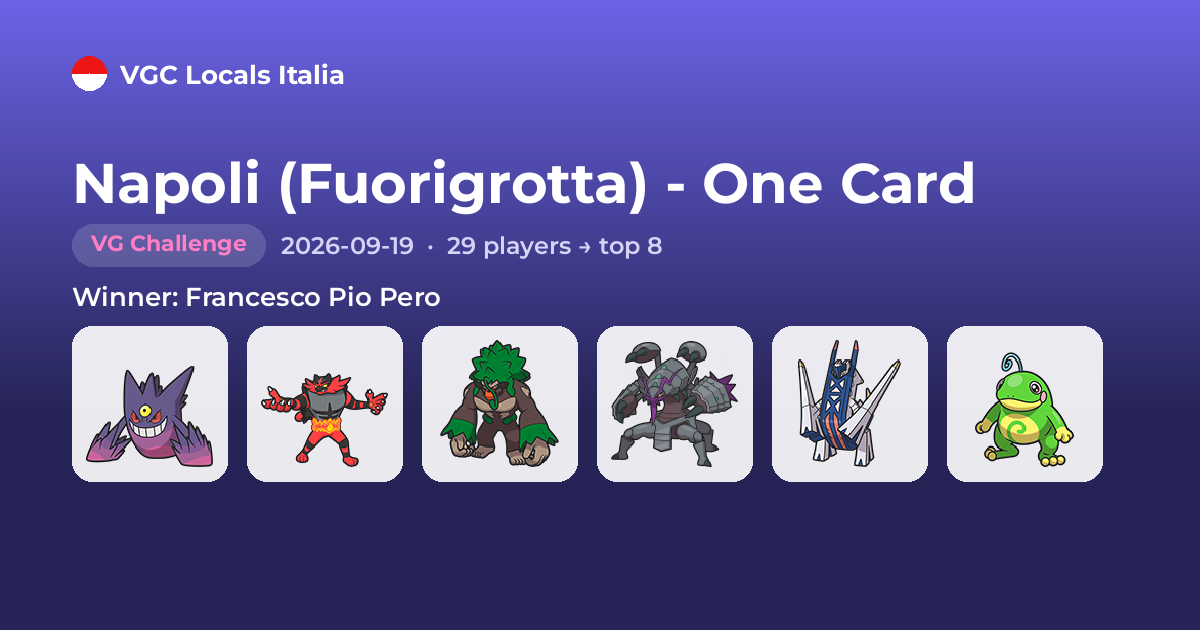
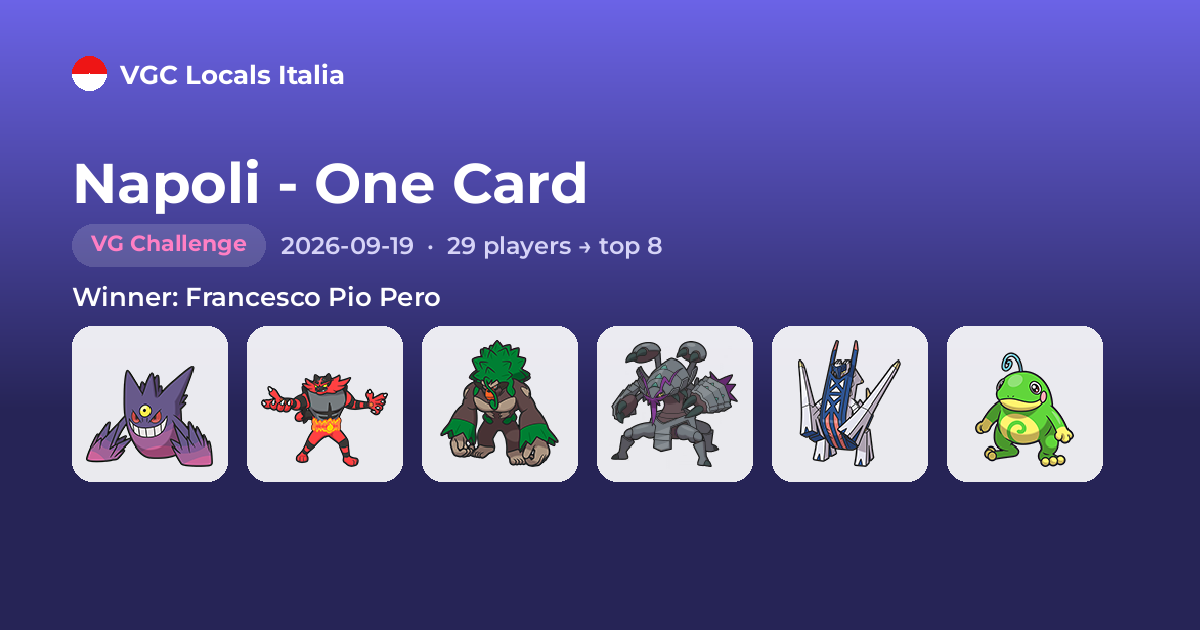
Update Italian VGC locals data (2026-09-30)

Changed region(s): [[0.2158, 0.2413, 0.8325, 0.3619]]

diff --git a/vgc-locals-italia/t/foggia-mazeek-di-andrea-fiore-2026-09-20-challenge.html b/vgc-locals-italia/t/foggia-mazeek-di-andrea-fiore-2026-09-20-challenge.html
@@ -1,0 +1,221 @@
+<!doctype html>
+<html lang="en">
+<head>
+  <meta charset="utf-8">
+  <meta name="viewport" content="width=device-width, initial-scale=1">
+  <title>Foggia - Mazeek Di Andrea Fiore - VGC Locals Italia</title>
+  <meta name="description" content="Won by Nico Davide Cognetta — VG Challenge, 10 players → top 4.">
+
+  <meta property="og:type" content="website">
+  <meta property="og:url" content="https://shairaba.github.io/vgc-locals-italia/t/foggia-mazeek-di-andrea-fiore-2026-09-20-challenge.html">
+  <meta property="og:title" content="Foggia - Mazeek Di Andrea Fiore">
+  <meta property="og:description" content="Won by Nico Davide Cognetta — VG Challenge, 10 players → top 4.">
+  <meta property="og:image" content="https://shairaba.github.io/vgc-locals-italia/data/og/foggia-mazeek-di-andrea-fiore-2026-09-20-challenge.png">
+  <meta property="og:image:width" content="1200">
+  <meta property="og:image:height" content="630">
+  <meta name="twitter:card" content="summary_large_image">
+  <meta name="twitter:title" content="Foggia - Mazeek Di Andrea Fiore">
+  <meta name="twitter:description" content="Won by Nico Davide Cognetta — VG Challenge, 10 players → top 4.">
+  <meta name="twitter:image" content="https://shairaba.github.io/vgc-locals-italia/data/og/foggia-mazeek-di-andrea-fiore-2026-09-20-challenge.png">
+
+  <link rel="icon" href="../logo.svg" type="image/svg+xml">
+  <script>
+  (function () {
+    var m = document.cookie.match(/(?:^|; )theme=(dark|light)/);
+    var theme = m ? m[1] : (window.matchMedia && window.matchMedia("(prefers-color-scheme: dark)").matches ? "dark" : "light");
+    document.documentElement.setAttribute("data-theme", theme);
+  })();
+  </script>
+  <link rel="preconnect" href="https://fonts.googleapis.com">
+  <link rel="preconnect" href="https://fonts.gstatic.com" crossorigin>
+  <link href="https://fonts.googleapis.com/css2?family=Montserrat:wght@400;500;600;700;800&display=swap" rel="stylesheet">
+  <link rel="stylesheet" href="../style.css">
+</head>
+<body>
+  <header class="topbar">
+    <a class="brand-group" href="../index.html">
+      <img class="logo" src="../logo.svg" alt="">
+      <span class="brand">VGC Locals Italia</span>
+    </a>
+    <div class="topbar-controls">
+      <nav>
+        <a href="../index.html" data-i18n="navTournaments">Tournaments</a>
+        <a href="../dashboard.html" data-i18n="navDashboard">Dashboard</a>
+      </nav>
+      <div class="lang-toggle">
+        <button class="lang-btn" data-lang="it" type="button">IT</button>
+        <button class="lang-btn" data-lang="en" type="button">EN</button>
+      </div>
+      <button id="theme-toggle" type="button" data-i18n-aria-label="themeToggleLabel" aria-label="Toggle dark mode">
+        <span class="theme-switch-icon theme-switch-sun" aria-hidden="true">
+          <svg viewBox="0 0 24 24" width="12" height="12" fill="none" stroke="currentColor" stroke-width="2" stroke-linecap="round">
+            <circle cx="12" cy="12" r="4"></circle>
+            <path d="M12 2v2M12 20v2M4.93 4.93l1.41 1.41M17.66 17.66l1.41 1.41M2 12h2M20 12h2M6.34 17.66l-1.41 1.41M19.07 4.93l-1.41 1.41"></path>
+          </svg>
+        </span>
+        <span class="theme-switch-icon theme-switch-moon" aria-hidden="true">
+          <svg viewBox="0 0 24 24" width="12" height="12" fill="currentColor">
+            <path d="M20 14.5A8.5 8.5 0 1 1 9.5 4a7 7 0 1 0 10.5 10.5z"></path>
+          </svg>
+        </span>
+        <span class="theme-switch-knob"></span>
+      </button>
+    </div>
+  </header>
+  <main class="container">
+    <p class="breadcrumb"><a href="../index.html" data-i18n="breadcrumbAllTournaments">&larr; All tournaments</a></p>
+
+    <div class="detail-title-row">
+      <h1>Foggia - Mazeek Di Andrea Fiore</h1>
+      <span class="badge type-challenge">VG Challenge</span>
+    </div>
+    <p class="lede" id="detail-meta"></p>
+    <p class="meta location-line">&#128205; <a href="https://shairaba.github.io/pokemon-events-italia/venue.html?vid=L6244693" target="_blank" rel="noopener">Mazeek Di Andrea Fiore</a></p>
+
+    <section class="panel">
+      <h2 data-i18n="allTeamsHeading">All top-cut teams</h2>
+      <div class="roster-list">
+        <div class="roster-card">
+          <div class="roster-card-head">
+            <span class="roster-place">1st</span>
+            <span class="roster-player">Nico Davide Cognetta</span>
+          </div>
+          <div class="mon-mini-grid">
+        <div class="mon-mini">
+          <span class="sprite-chip"><img class="sprite" src="https://cdn.jsdelivr.net/gh/shairaba/VGC-Teamlist-Generator-Assets@HEAD/Assets/Pokemon/0026_01.png" alt="Raichu-Mega-X" title="Raichu-Mega-X" loading="lazy" onerror="this.onerror=null;this.src='https://r2.limitlesstcg.net/pokemon/gen9/raichu-mega-x.png';"></span>
+          <span class="truncate">Raichu-Mega-X</span>
+        </div>
+        <div class="mon-mini">
+          <span class="sprite-chip"><img class="sprite" src="https://cdn.jsdelivr.net/gh/shairaba/VGC-Teamlist-Generator-Assets@HEAD/Assets/Pokemon/0655_01.png" alt="Delphox-Mega" title="Delphox-Mega" loading="lazy" onerror="this.onerror=null;this.src='https://r2.limitlesstcg.net/pokemon/gen9/delphox-mega.png';"></span>
+          <span class="truncate">Delphox-Mega</span>
+        </div>
+        <div class="mon-mini">
+          <span class="sprite-chip"><img class="sprite" src="https://cdn.jsdelivr.net/gh/shairaba/VGC-Teamlist-Generator-Assets@HEAD/Assets/Pokemon/0983.png" alt="Kingambit" title="Kingambit" loading="lazy" onerror="this.onerror=null;this.src='https://r2.limitlesstcg.net/pokemon/gen9/kingambit.png';"></span>
+          <span class="truncate">Kingambit</span>
+        </div>
+        <div class="mon-mini">
+          <span class="sprite-chip"><img class="sprite" src="https://cdn.jsdelivr.net/gh/shairaba/VGC-Teamlist-Generator-Assets@HEAD/Assets/Pokemon/0727.png" alt="Incineroar" title="Incineroar" loading="lazy" onerror="this.onerror=null;this.src='https://r2.limitlesstcg.net/pokemon/gen9/incineroar.png';"></span>
+          <span class="truncate">Incineroar</span>
+        </div>
+        <div class="mon-mini">
+          <span class="sprite-chip"><img class="sprite" src="https://cdn.jsdelivr.net/gh/shairaba/VGC-Teamlist-Generator-Assets@HEAD/Assets/Pokemon/1013.png" alt="Sinistcha" title="Sinistcha" loading="lazy" onerror="this.onerror=null;this.src='https://r2.limitlesstcg.net/pokemon/gen9/sinistcha.png';"></span>
+          <span class="truncate">Sinistcha</span>
+        </div>
+        <div class="mon-mini">
+          <span class="sprite-chip"><img class="sprite" src="https://cdn.jsdelivr.net/gh/shairaba/VGC-Teamlist-Generator-Assets@HEAD/Assets/Pokemon/0784.png" alt="Kommo-o" title="Kommo-o" loading="lazy" onerror="this.onerror=null;this.src='https://r2.limitlesstcg.net/pokemon/gen9/kommo-o.png';"></span>
+          <span class="truncate">Kommo-o</span>
+        </div></div>
+        </div>
+        <div class="roster-card">
+          <div class="roster-card-head">
+            <span class="roster-place">2nd</span>
+            <span class="roster-player">Antonio Marchitelli</span>
+          </div>
+          <div class="mon-mini-grid">
+        <div class="mon-mini">
+          <span class="sprite-chip"><img class="sprite" src="https://cdn.jsdelivr.net/gh/shairaba/VGC-Teamlist-Generator-Assets@HEAD/Assets/Pokemon/0445_02.png" alt="Garchomp-Mega-Z" title="Garchomp-Mega-Z" loading="lazy" onerror="this.onerror=null;this.src='https://r2.limitlesstcg.net/pokemon/gen9/garchomp-mega-z.png';"></span>
+          <span class="truncate">Garchomp-Mega-Z</span>
+        </div>
+        <div class="mon-mini">
+          <span class="sprite-chip"><img class="sprite" src="https://cdn.jsdelivr.net/gh/shairaba/VGC-Teamlist-Generator-Assets@HEAD/Assets/Pokemon/0670_02.png" alt="Floette-Mega" title="Floette-Mega" loading="lazy" onerror="this.onerror=null;this.src='https://r2.limitlesstcg.net/pokemon/gen9/floette-mega.png';"></span>
+          <span class="truncate">Floette-Mega</span>
+        </div>
+        <div class="mon-mini">
+          <span class="sprite-chip"><img class="sprite" src="https://cdn.jsdelivr.net/gh/shairaba/VGC-Teamlist-Generator-Assets@HEAD/Assets/Pokemon/0727.png" alt="Incineroar" title="Incineroar" loading="lazy" onerror="this.onerror=null;this.src='https://r2.limitlesstcg.net/pokemon/gen9/incineroar.png';"></span>
+          <span class="truncate">Incineroar</span>
+        </div>
+        <div class="mon-mini">
+          <span class="sprite-chip"><img class="sprite" src="https://cdn.jsdelivr.net/gh/shairaba/VGC-Teamlist-Generator-Assets@HEAD/Assets/Pokemon/0812.png" alt="Rillaboom" title="Rillaboom" loading="lazy" onerror="this.onerror=null;this.src='https://r2.limitlesstcg.net/pokemon/gen9/rillaboom.png';"></span>
+          <span class="truncate">Rillaboom</span>
+        </div>
+        <div class="mon-mini">
+          <span class="sprite-chip"><img class="sprite" src="https://cdn.jsdelivr.net/gh/shairaba/VGC-Teamlist-Generator-Assets@HEAD/Assets/Pokemon/0983.png" alt="Kingambit" title="Kingambit" loading="lazy" onerror="this.onerror=null;this.src='https://r2.limitlesstcg.net/pokemon/gen9/kingambit.png';"></span>
+          <span class="truncate">Kingambit</span>
+        </div>
+        <div class="mon-mini">
+          <span class="sprite-chip"><img class="sprite" src="https://cdn.jsdelivr.net/gh/shairaba/VGC-Teamlist-Generator-Assets@HEAD/Assets/Pokemon/0903.png" alt="Sneasler" title="Sneasler" loading="lazy" onerror="this.onerror=null;this.src='https://r2.limitlesstcg.net/pokemon/gen9/sneasler.png';"></span>
+          <span class="truncate">Sneasler</span>
+        </div></div>
+        </div>
+        <div class="roster-card">
+          <div class="roster-card-head">
+            <span class="roster-place">3rd</span>
+            <span class="roster-player">Mattia Cognetta</span>
+          </div>
+          <div class="mon-mini-grid">
+        <div class="mon-mini">
+          <span class="sprite-chip"><img class="sprite" src="https://cdn.jsdelivr.net/gh/shairaba/VGC-Teamlist-Generator-Assets@HEAD/Assets/Pokemon/0026_02.png" alt="Raichu-Mega-Y" title="Raichu-Mega-Y" loading="lazy" onerror="this.onerror=null;this.src='https://r2.limitlesstcg.net/pokemon/gen9/raichu-mega-y.png';"></span>
+          <span class="truncate">Raichu-Mega-Y</span>
+        </div>
+        <div class="mon-mini">
+          <span class="sprite-chip"><img class="sprite" src="https://cdn.jsdelivr.net/gh/shairaba/VGC-Teamlist-Generator-Assets@HEAD/Assets/Pokemon/0376_01.png" alt="Metagross-Mega" title="Metagross-Mega" loading="lazy" onerror="this.onerror=null;this.src='https://r2.limitlesstcg.net/pokemon/gen9/metagross-mega.png';"></span>
+          <span class="truncate">Metagross-Mega</span>
+        </div>
+        <div class="mon-mini">
+          <span class="sprite-chip"><img class="sprite" src="https://cdn.jsdelivr.net/gh/shairaba/VGC-Teamlist-Generator-Assets@HEAD/Assets/Pokemon/0727.png" alt="Incineroar" title="Incineroar" loading="lazy" onerror="this.onerror=null;this.src='https://r2.limitlesstcg.net/pokemon/gen9/incineroar.png';"></span>
+          <span class="truncate">Incineroar</span>
+        </div>
+        <div class="mon-mini">
+          <span class="sprite-chip"><img class="sprite" src="https://cdn.jsdelivr.net/gh/shairaba/VGC-Teamlist-Generator-Assets@HEAD/Assets/Pokemon/0812.png" alt="Rillaboom" title="Rillaboom" loading="lazy" onerror="this.onerror=null;this.src='https://r2.limitlesstcg.net/pokemon/gen9/rillaboom.png';"></span>
+          <span class="truncate">Rillaboom</span>
+        </div>
+        <div class="mon-mini">
+          <span class="sprite-chip"><img class="sprite" src="https://cdn.jsdelivr.net/gh/shairaba/VGC-Teamlist-Generator-Assets@HEAD/Assets/Pokemon/0637.png" alt="Volcarona" title="Volcarona" loading="lazy" onerror="this.onerror=null;this.src='https://r2.limitlesstcg.net/pokemon/gen9/volcarona.png';"></span>
+          <span class="truncate">Volcarona</span>
+        </div>
+        <div class="mon-mini">
+          <span class="sprite-chip"><img class="sprite" src="https://cdn.jsdelivr.net/gh/shairaba/VGC-Teamlist-Generator-Assets@HEAD/Assets/Pokemon/0445.png" alt="Garchomp" title="Garchomp" loading="lazy" onerror="this.onerror=null;this.src='https://r2.limitlesstcg.net/pokemon/gen9/garchomp.png';"></span>
+          <span class="truncate">Garchomp</span>
+        </div></div>
+        </div>
+        <div class="roster-card">
+          <div class="roster-card-head">
+            <span class="roster-place">4th</span>
+            <span class="roster-player">Andrea Rubegni</span>
+          </div>
+          <div class="mon-mini-grid">
+        <div class="mon-mini">
+          <span class="sprite-chip"><img class="sprite" src="https://cdn.jsdelivr.net/gh/shairaba/VGC-Teamlist-Generator-Assets@HEAD/Assets/Pokemon/0006_02.png" alt="Charizard-Mega-Y" title="Charizard-Mega-Y" loading="lazy" onerror="this.onerror=null;this.src='https://r2.limitlesstcg.net/pokemon/gen9/charizard-mega-y.png';"></span>
+          <span class="truncate">Charizard-Mega-Y</span>
+        </div>
+        <div class="mon-mini">
+          <span class="sprite-chip"><img class="sprite" src="https://cdn.jsdelivr.net/gh/shairaba/VGC-Teamlist-Generator-Assets@HEAD/Assets/Pokemon/0445.png" alt="Garchomp" title="Garchomp" loading="lazy" onerror="this.onerror=null;this.src='https://r2.limitlesstcg.net/pokemon/gen9/garchomp.png';"></span>
+          <span class="truncate">Garchomp</span>
+        </div>
+        <div class="mon-mini">
+          <span class="sprite-chip"><img class="sprite" src="https://cdn.jsdelivr.net/gh/shairaba/VGC-Teamlist-Generator-Assets@HEAD/Assets/Pokemon/0727.png" alt="Incineroar" title="Incineroar" loading="lazy" onerror="this.onerror=null;this.src='https://r2.limitlesstcg.net/pokemon/gen9/incineroar.png';"></span>
+          <span class="truncate">Incineroar</span>
+        </div>
+        <div class="mon-mini">
+          <span class="sprite-chip"><img class="sprite" src="https://cdn.jsdelivr.net/gh/shairaba/VGC-Teamlist-Generator-Assets@HEAD/Assets/Pokemon/0812.png" alt="Rillaboom" title="Rillaboom" loading="lazy" onerror="this.onerror=null;this.src='https://r2.limitlesstcg.net/pokemon/gen9/rillaboom.png';"></span>
+          <span class="truncate">Rillaboom</span>
+        </div>
+        <div class="mon-mini">
+          <span class="sprite-chip"><img class="sprite" src="https://cdn.jsdelivr.net/gh/shairaba/VGC-Teamlist-Generator-Assets@HEAD/Assets/Pokemon/0350.png" alt="Milotic" title="Milotic" loading="lazy" onerror="this.onerror=null;this.src='https://r2.limitlesstcg.net/pokemon/gen9/milotic.png';"></span>
+          <span class="truncate">Milotic</span>
+        </div>
+        <div class="mon-mini">
+          <span class="sprite-chip"><img class="sprite" src="https://cdn.jsdelivr.net/gh/shairaba/VGC-Teamlist-Generator-Assets@HEAD/Assets/Pokemon/1000.png" alt="Gholdengo" title="Gholdengo" loading="lazy" onerror="this.onerror=null;this.src='https://r2.limitlesstcg.net/pokemon/gen9/gholdengo.png';"></span>
+          <span class="truncate">Gholdengo</span>
+        </div></div>
+        </div></div>
+    </section>
+
+    <p class="footnote" data-i18n="footnoteDisclaimer">
+      Not affiliated with The Pok&eacute;mon Company International.
+    </p>
+  </main>
+
+  <script src="../app.js"></script>
+  <script src="../sprite-map.js"></script>
+  <script>
+    (function () {
+      const renderMeta = () => {
+        document.getElementById("detail-meta").textContent = t("cardMeta", '2026-09-20', 10, 4);
+      };
+      renderMeta();
+      initLangToggle(renderMeta);
+    })();
+  </script>
+</body>
+</html>

diff --git a/vgc-locals-italia/t/rende-cs-comics-and-games-store-2026-09-29-challenge.html b/vgc-locals-italia/t/rende-cs-comics-and-games-store-2026-09-29-challenge.html
@@ -3,18 +3,18 @@
 <head>
   <meta charset="utf-8">
   <meta name="viewport" content="width=device-width, initial-scale=1">
-  <title>Rende (CS) - Comics And Games Store - VGC Locals Italia</title>
+  <title>Rende - Comics And Games Store - VGC Locals Italia</title>
   <meta name="description" content="Won by Federico Barone — VG Challenge, 10 players → top 4.">
 
   <meta property="og:type" content="website">
   <meta property="og:url" content="https://shairaba.github.io/vgc-locals-italia/t/rende-cs-comics-and-games-store-2026-09-29-challenge.html">
-  <meta property="og:title" content="Rende (CS) - Comics And Games Store">
+  <meta property="og:title" content="Rende - Comics And Games Store">
   <meta property="og:description" content="Won by Federico Barone — VG Challenge, 10 players → top 4.">
   <meta property="og:image" content="https://shairaba.github.io/vgc-locals-italia/data/og/rende-cs-comics-and-games-store-2026-09-29-challenge.png">
   <meta property="og:image:width" content="1200">
   <meta property="og:image:height" content="630">
   <meta name="twitter:card" content="summary_large_image">
-  <meta name="twitter:title" content="Rende (CS) - Comics And Games Store">
+  <meta name="twitter:title" content="Rende - Comics And Games Store">
   <meta name="twitter:description" content="Won by Federico Barone — VG Challenge, 10 players → top 4.">
   <meta name="twitter:image" content="https://shairaba.github.io/vgc-locals-italia/data/og/rende-cs-comics-and-games-store-2026-09-29-challenge.png">
 
@@ -66,7 +66,7 @@
     <p class="breadcrumb"><a href="../index.html" data-i18n="breadcrumbAllTournaments">&larr; All tournaments</a></p>
 
     <div class="detail-title-row">
-      <h1>Rende (CS) - Comics And Games Store</h1>
+      <h1>Rende - Comics And Games Store</h1>
       <span class="badge type-challenge">VG Challenge</span>
     </div>
     <p class="lede" id="detail-meta"></p>

diff --git a/vgc-locals-italia/t/napoli-fuorigrotta-one-card-2026-09-19-challenge.html b/vgc-locals-italia/t/napoli-fuorigrotta-one-card-2026-09-19-challenge.html
@@ -3,18 +3,18 @@
 <head>
   <meta charset="utf-8">
   <meta name="viewport" content="width=device-width, initial-scale=1">
-  <title>Napoli (Fuorigrotta) - One Card - VGC Locals Italia</title>
+  <title>Napoli - One Card - VGC Locals Italia</title>
   <meta name="description" content="Won by Francesco Pio Pero — VG Challenge, 29 players → top 8.">
 
   <meta property="og:type" content="website">
   <meta property="og:url" content="https://shairaba.github.io/vgc-locals-italia/t/napoli-fuorigrotta-one-card-2026-09-19-challenge.html">
-  <meta property="og:title" content="Napoli (Fuorigrotta) - One Card">
+  <meta property="og:title" content="Napoli - One Card">
   <meta property="og:description" content="Won by Francesco Pio Pero — VG Challenge, 29 players → top 8.">
   <meta property="og:image" content="https://shairaba.github.io/vgc-locals-italia/data/og/napoli-fuorigrotta-one-card-2026-09-19-challenge.png">
   <meta property="og:image:width" content="1200">
   <meta property="og:image:height" content="630">
   <meta name="twitter:card" content="summary_large_image">
-  <meta name="twitter:title" content="Napoli (Fuorigrotta) - One Card">
+  <meta name="twitter:title" content="Napoli - One Card">
   <meta name="twitter:description" content="Won by Francesco Pio Pero — VG Challenge, 29 players → top 8.">
   <meta name="twitter:image" content="https://shairaba.github.io/vgc-locals-italia/data/og/napoli-fuorigrotta-one-card-2026-09-19-challenge.png">
 
@@ -66,7 +66,7 @@
     <p class="breadcrumb"><a href="../index.html" data-i18n="breadcrumbAllTournaments">&larr; All tournaments</a></p>
 
     <div class="detail-title-row">
-      <h1>Napoli (Fuorigrotta) - One Card</h1>
+      <h1>Napoli - One Card</h1>
       <span class="badge type-challenge">VG Challenge</span>
     </div>
     <p class="lede" id="detail-meta"></p>
